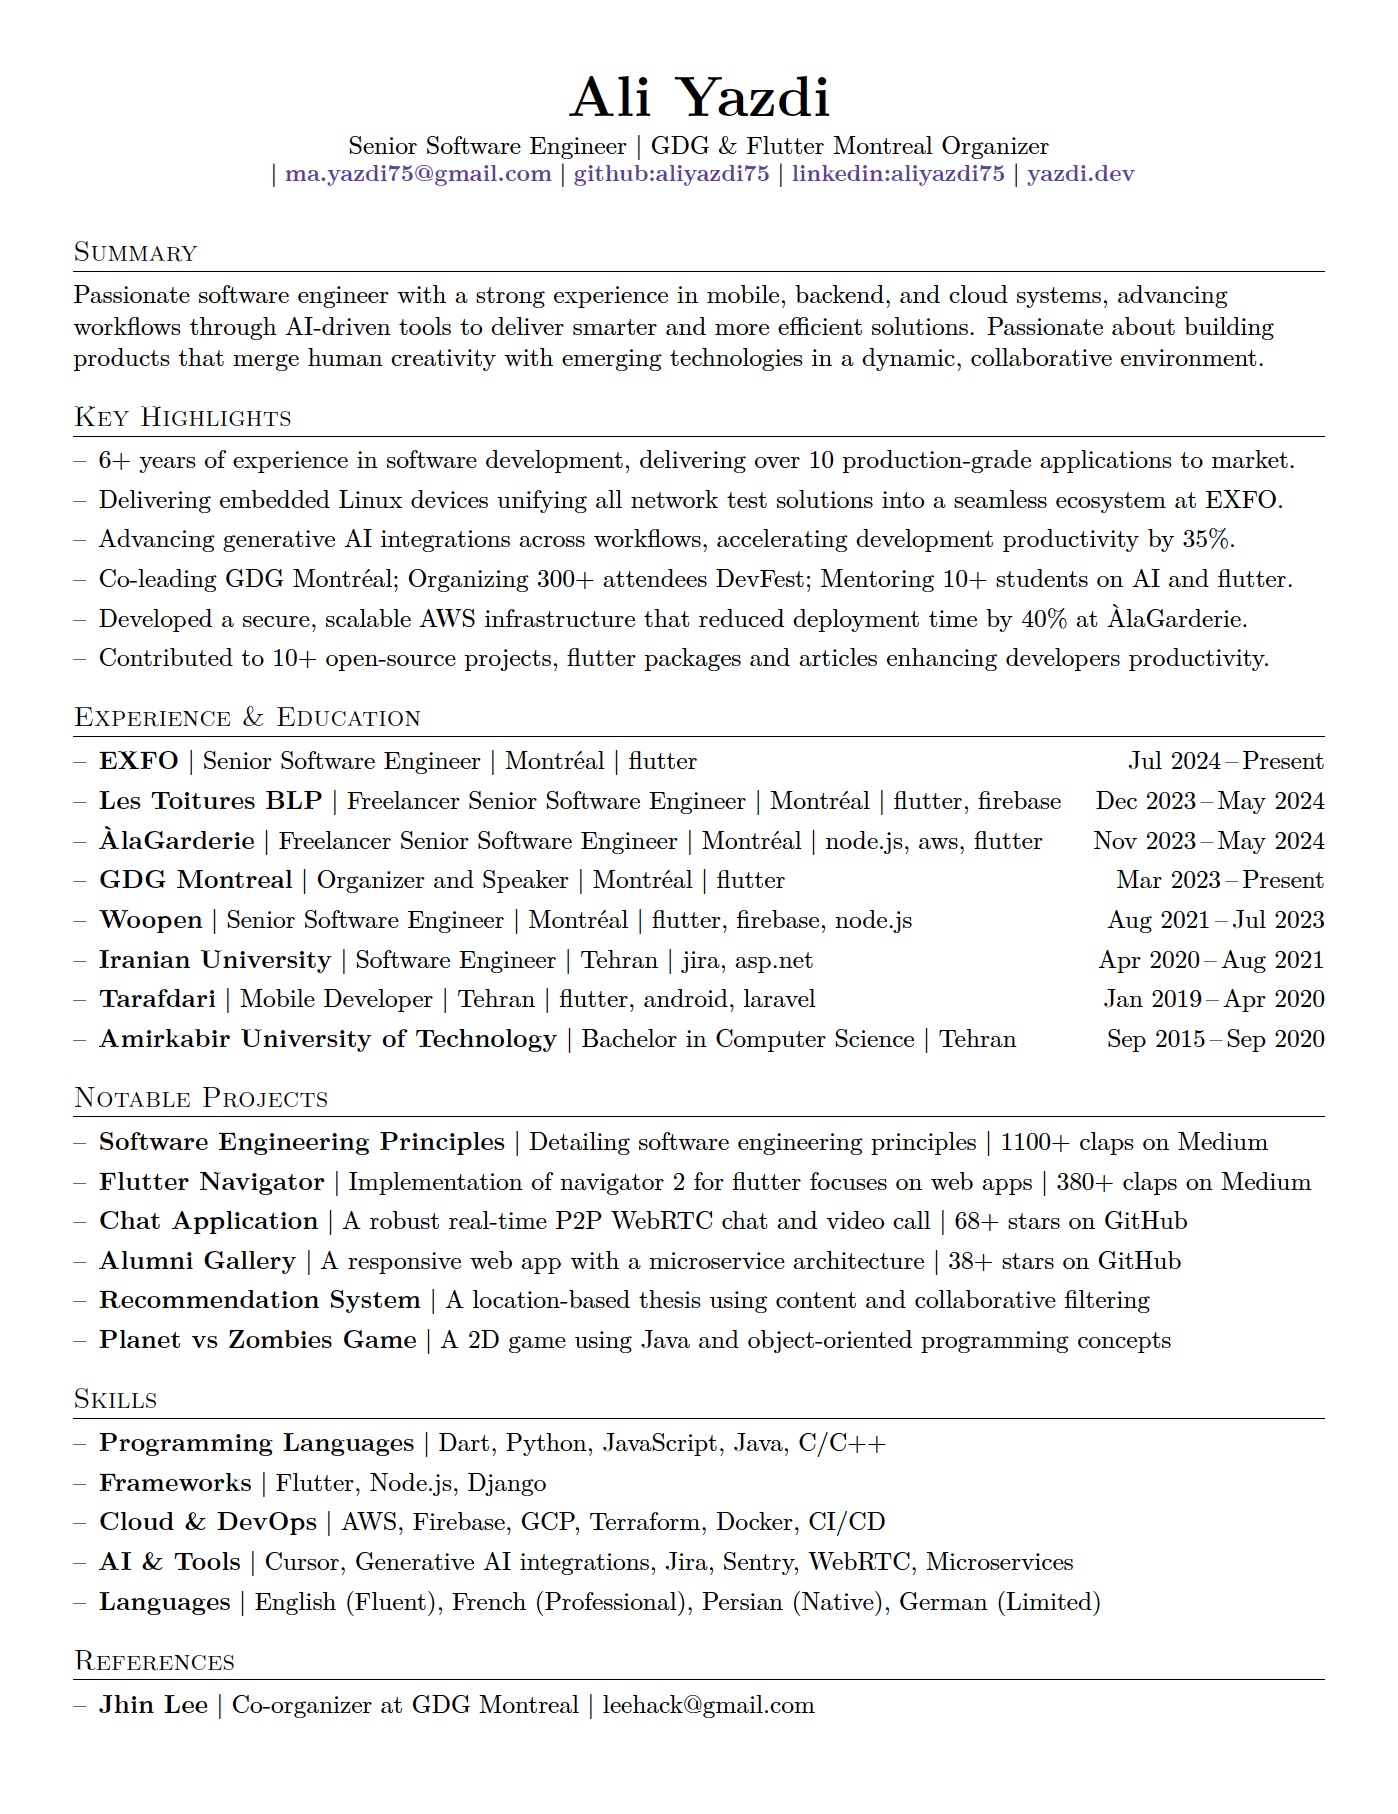
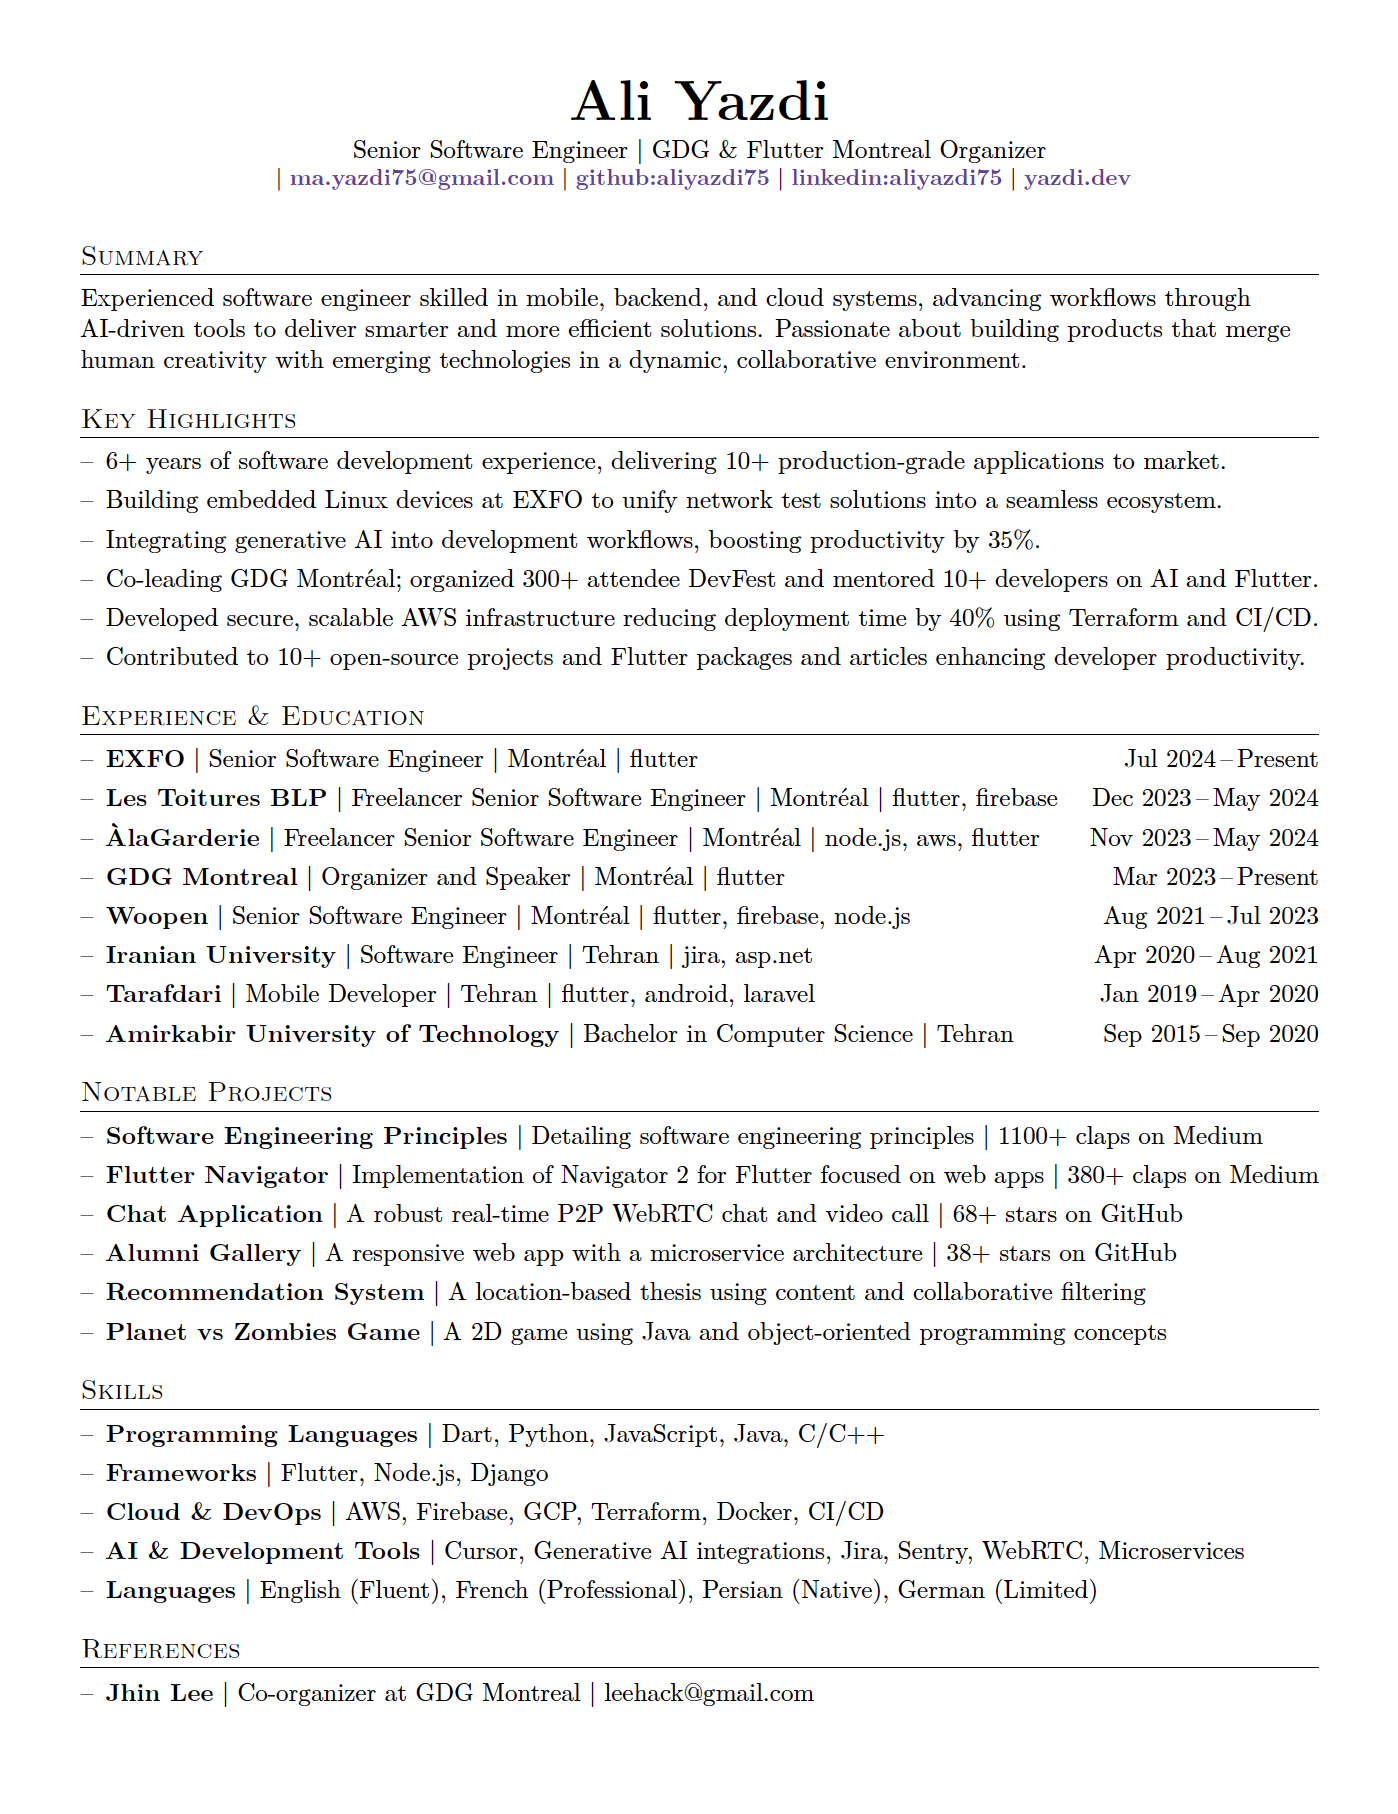
update cv

Changed region(s): [[0.0308, 0.1235, 0.9535, 0.957], [0.1845, 0.0309, 0.7997, 0.1235]]

diff --git a/AYazdiCV.tex b/AYazdiCV.tex
@@ -90,7 +90,7 @@ pdfkeywords={\PDFKeywords},
 
 \Section{Summary}
 
-Passionate software engineer with a strong experience in mobile, backend, and cloud systems, advancing workflows through AI-driven tools to deliver smarter and more efficient solutions.
+Experienced software engineer skilled in mobile, backend, and cloud systems, advancing workflows through AI-driven tools to deliver smarter and more efficient solutions.
 Passionate about building products that merge human creativity with emerging technologies in a dynamic, collaborative environment.
 
 
@@ -101,12 +101,12 @@ Passionate about building products that merge human creativity with emerging tec
 \Section{Key Highlights}
 
 \begin{itemize}[leftmargin=*, noitemsep, topsep=0pt, partopsep=0pt]
-      \item 6+ years of experience in software development, delivering over 10 production-grade applications to market.
-      \item \BigGap Delivering embedded Linux devices unifying all network test solutions into a seamless ecosystem at EXFO.
-      \item \BigGap Advancing generative AI integrations across workflows, accelerating development productivity by 35\%.
-      \item \BigGap Co-leading GDG Montréal; Organizing 300+ attendees DevFest; Mentoring 10+ students on AI and flutter.
-      \item \BigGap Developed a secure, scalable AWS infrastructure that reduced deployment time by 40\% at ÀlaGarderie.
-      \item \BigGap Contributed to 10+ open-source projects, flutter packages and articles enhancing developers productivity.
+      \item 6+ years of software development experience, delivering 10+ production-grade applications to market.
+      \item \BigGap Building embedded Linux devices at EXFO to unify network test solutions into a seamless ecosystem.
+      \item \BigGap Integrating generative AI into development workflows, boosting productivity by 35\%.
+      \item \BigGap Co-leading GDG Montréal; organized 300+ attendee DevFest and mentored 10+ developers on AI and Flutter.
+      \item \BigGap Developed secure, scalable AWS infrastructure reducing deployment time by 40\% using Terraform and CI/CD.
+      \item \BigGap Contributed to 10+ open-source projects and Flutter packages and articles enhancing developer productivity.
 \end{itemize}
 
 %%%%%%%%%%%%%%%%%%%%%%%%%%%%
@@ -171,7 +171,7 @@ Passionate about building products that merge human creativity with emerging tec
 
       \item \BigGap
             \href{https://medium.com/flutter-community/lets-make-the-flutter-navigator-2-bc5953251c3e?source=friends_link&sk=e1ff30235ab93276b558c5b5ef1dd15f}
-            {\textbf{Flutter Navigator}} | Implementation of navigator 2 for flutter focuses on web apps | 380+ claps on Medium
+            {\textbf{Flutter Navigator}} | Implementation of Navigator 2 for Flutter focused on web apps | 380+ claps on Medium
 
       \item \BigGap
             \href{https://github.com/aliyazdi75/flutter_chat}
@@ -210,7 +210,7 @@ Passionate about building products that merge human creativity with emerging tec
             \textbf{Cloud \& DevOps} | AWS, Firebase, GCP, Terraform, Docker, CI/CD
 
       \item \BigGap
-            \textbf{AI \& Tools} | Cursor, Generative AI integrations, Jira, Sentry, WebRTC, Microservices
+            \textbf{AI \& Development Tools} | Cursor, Generative AI integrations, Jira, Sentry, WebRTC, Microservices
 
       \item \BigGap
             \textbf{Languages} | English (Fluent), French (Professional), Persian (Native), German (Limited)
